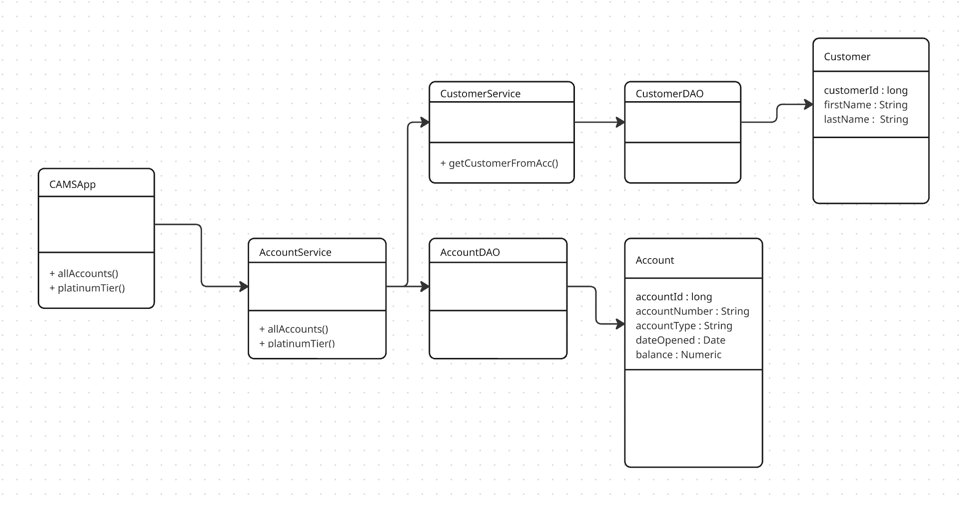
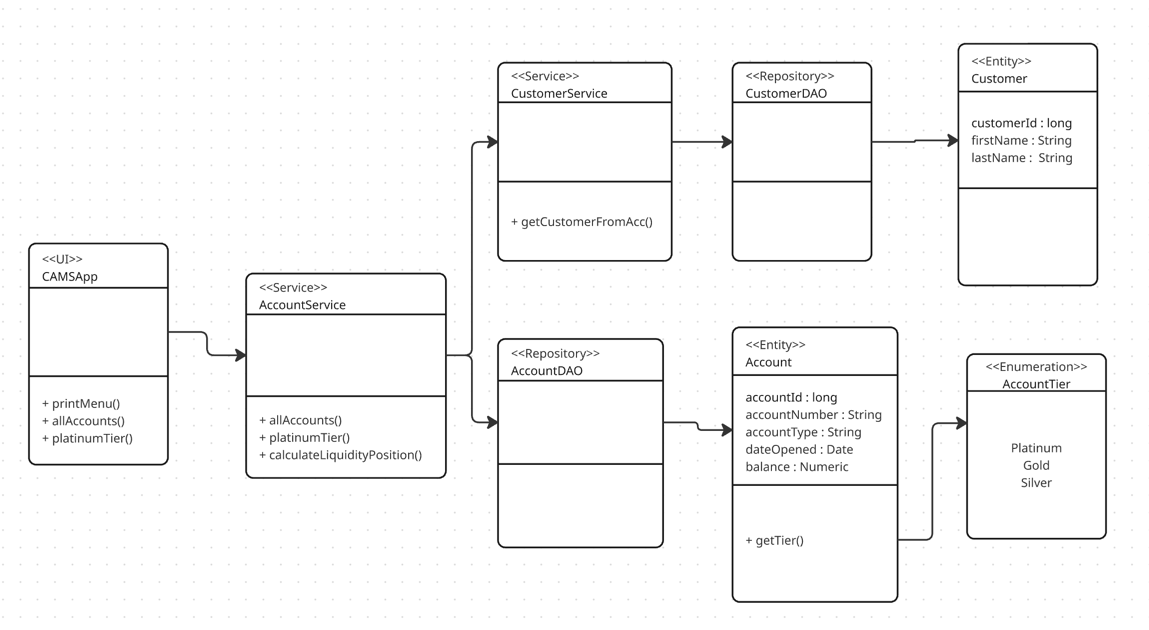
Update 3

diff --git a/README.md b/README.md
@@ -46,15 +46,3 @@ This opens the menu-driven CLI:
 ==================================================
 Enter your choice (1-3): 
 ```
-
-#### B. Command-Line Arguments Mode
-You can query lists directly by passing commands to bypass the interactive menu:
-
-*   **To display all accounts** (sorted by balance descending, with the bank's liquidity position at the bottom):
-    ```bash
-    java -jar target/cams-cli-app-1.0-SNAPSHOT.jar all
-    ```
-*   **To display only Platinum tier accounts**:
-    ```bash
-    java -jar target/cams-cli-app-1.0-SNAPSHOT.jar platinum
-    ```
